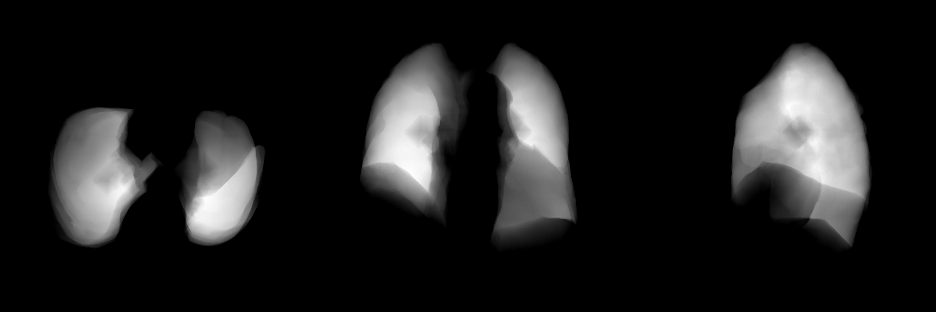
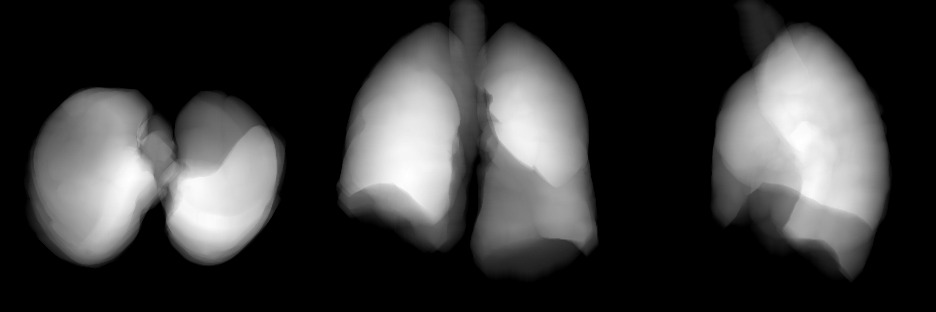
updated airway method

diff --git a/oldschool.py b/oldschool.py
@@ -1,10 +1,11 @@
 import numpy as np
 from scipy import ndimage
 from skimage import measure
+import skfmm
 import SimpleITK as sitk
 
 # naive lungseg using image processing methods.
-def lung_seg(img_obj):
+def lung_seg(img_obj,kind=None):
     
     arr = sitk.GetArrayFromImage(img_obj)
     spacing = img_obj.GetSpacing()
@@ -36,9 +37,14 @@ def lung_seg(img_obj):
         if contain_bkgd > 0:
             continue
         lung_mask[mask==1]=1
-       
+    
     lung_mask = ndimage.morphology.binary_closing(lung_mask,iterations=5)
-    lung_mask = ndimage.morphology.binary_erosion(lung_mask,iterations=10).astype(arr.dtype)
+    if kind == 'erode':        
+        lung_mask = ndimage.morphology.binary_erosion(lung_mask,iterations=10).astype(arr.dtype)
+    elif kind  == 'dilate':
+        lung_mask = ndimage.morphology.binary_dilation(lung_mask,iterations=10).astype(arr.dtype)
+    else:
+        pass
 
     lung_obj = sitk.GetImageFromArray(lung_mask)
     lung_obj.SetSpacing(spacing)
@@ -95,10 +101,17 @@ def vessel_seg(masked_obj):
     myfilter.SetGamma(5.0)
     return vessel_obj
 
-# https://www.ncbi.nlm.nih.gov/pmc/articles/PMC6737148/pdf/10278_2018_Article_158.pdf
-# alpha,beta,gamma: 0.05,10,100.0
-# sigma: from 0.5 to 2.5 mm with a step size of 0.5 mm.
-# TODO: need a loop for sigma
+
+def get_point_seeded_field(img,seed):
+    sx,sy,sz = seed
+    mask = ~img.astype(bool)
+    img = img.astype(float)
+    m = np.ones_like(img)
+    m[sx,sy,sz] = 0
+    m = np.ma.masked_array(m, mask)
+    ss_field = skfmm.distance(m)
+    return ss_field
+
 def airway_seg(img_obj):
 
     arr = sitk.GetArrayFromImage(img_obj)
@@ -106,29 +119,47 @@ def airway_seg(img_obj):
     origin = img_obj.GetOrigin()
     direction = img_obj.GetDirection()  
 
-    arr_list = []
-    for sigma in np.arange(0.5,3,0.5):
-        gaussian =sitk.SmoothingRecursiveGaussianImageFilter()
-        gaussian.SetSigma(sigma)
-        blurred = gaussian.Execute(img_obj)
-        myfilter = sitk.ObjectnessMeasureImageFilter()
-        myfilter.SetBrightObject(False)
-        myfilter.SetObjectDimension(1) # 1: lines (vessels)
-        myfilter.SetAlpha(0.05)
-        myfilter.SetBeta(10.)
-        myfilter.SetGamma(100.0)
-        enhanced = myfilter.Execute(blurred)
-        arr = sitk.GetArrayFromImage(enhanced)
-        arr_list.append(arr)
+    bkgd = np.zeros(arr.shape).astype(np.uint8)
+    pad = 5
+    bkgd[:,:,:pad]=1
+    bkgd[:,:,-1*pad:]=1
+    bkgd[:,:pad,:]=1
+    bkgd[:,-1*pad:,:]=1
+    
+    procarr = (arr < -300).astype(np.int)
+    procarr = ndimage.morphology.binary_closing(procarr,iterations=1)
 
-    arr = np.array(arr_list)
-    print(arr.shape)
-    arr = np.max(arr,axis=0).squeeze()
-    airway_obj = sitk.GetImageFromArray(arr)
+    label_image, num = ndimage.label(procarr)
+    region = measure.regionprops(label_image)
+
+    region = sorted(region,key=lambda x:x.area,reverse=True)
+    lung_mask = np.zeros(arr.shape).astype(np.uint8)
+    
+    # assume `x` largest air pockets except covering bkgd is lung, increase x for lung with fibrosis (?)
+    x=2
+    for r in region[:x]: # should just be 1 or 2, but getting x, since closing may not work.
+        mask = label_image==r.label
+        contain_bkgd = np.sum(mask*bkgd) > 0
+        if contain_bkgd > 0:
+            continue
+        lung_mask[mask==1]=1
+    
+    # locate trachea.
+    trachea = lung_mask.copy()
+    trachea[10:,:,:]=0 # TODO: hard coded param not good.
+    label_image, num = ndimage.label(trachea)
+    region = measure.regionprops(label_image)
+    region = sorted(region,key=lambda x:x.area,reverse=True)
+    seed = region[0].centroid
+    seed = tuple(np.array(seed).astype(np.int))
+    ss_field = get_point_seeded_field(lung_mask,seed).astype(np.int)
+    airway = np.logical_and(ss_field>=0,ss_field<75) # TODO: need to compute derivative from histogram
+    airway = airway.astype(np.uint8)
+    
+    airway_obj = sitk.GetImageFromArray(airway)
     airway_obj.SetSpacing(spacing)
     airway_obj.SetOrigin(origin)
     airway_obj.SetDirection(direction)
-
     return airway_obj
 
 def fissure_seg(masked_obj):

diff --git a/demo.py b/demo.py
@@ -22,7 +22,7 @@ if __name__ == "__main__":
     img_obj= resample_img(img_obj, TARGET_SHAPE)
 
     # lungseg
-    lung_obj = lung_seg(img_obj)
+    lung_obj = lung_seg(img_obj,kind='dilate')
     lung_mask = sitk.GetArrayFromImage(lung_obj)
     target_shape = (lung_mask.shape[1],lung_mask.shape[2])
 
@@ -54,7 +54,7 @@ if __name__ == "__main__":
     img_obj.SetDirection(img_obj.GetDirection())
 
     for name,method,proc_obj in [
-        ('airway',airway_seg,img_obj),
+        ('airway',airway_seg,masked_img_obj),
         ('vessel',vessel_seg,masked_img_obj),
         ('fissure',fissure_seg,masked_img_obj),
         ]:
